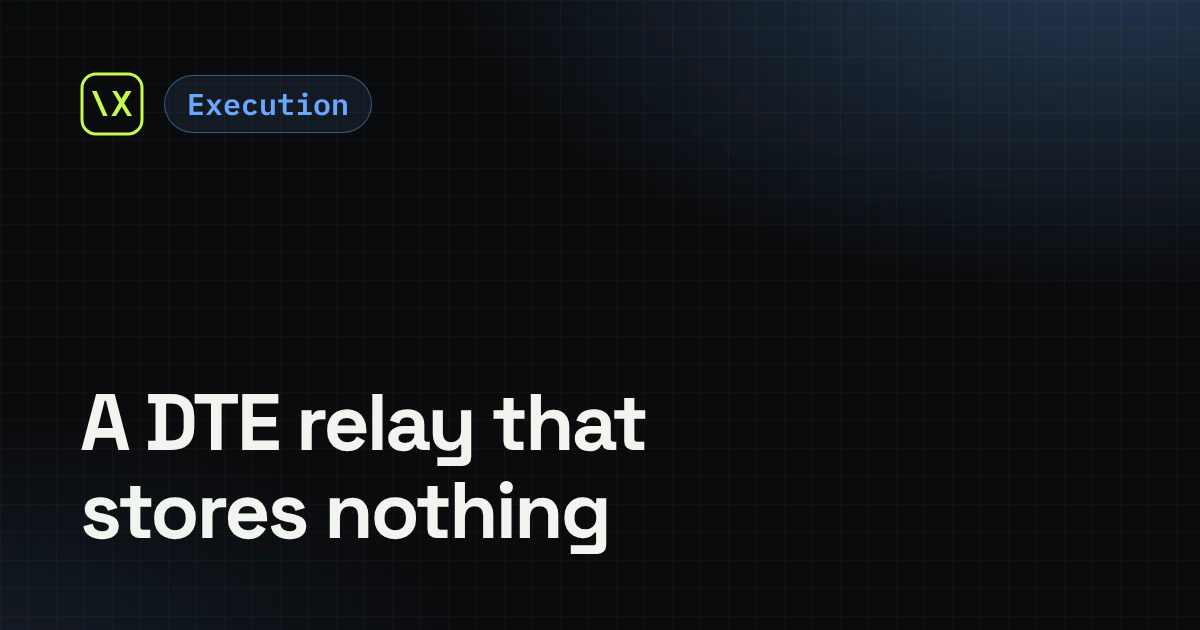
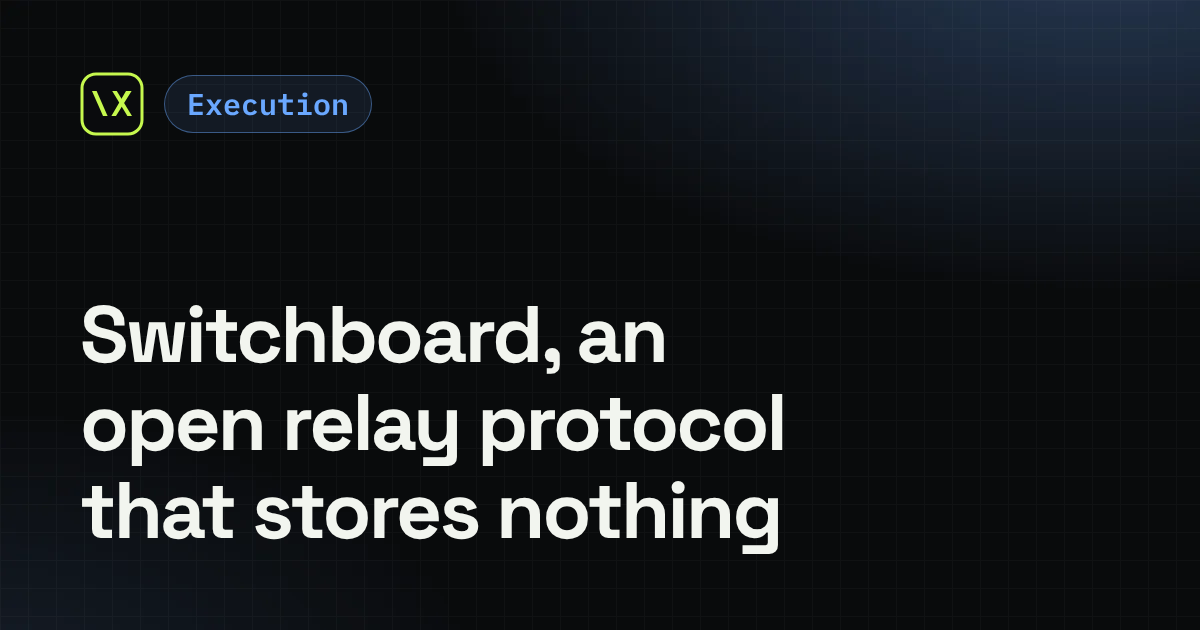
docs(vx-docs): blog the Switchboard relay protocol
The relay post becomes Switchboard's: one host, many peers, the
version on the join, delivery by the two ends, one conformance suite
for both relays. The DTE post links the spec.

Claude-Session: https://claude.ai/code/session_01X6Jk7Rx2UHTmLJsgdJnStG

Changed region(s): [[0.0617, 0.6032, 0.6783, 0.9048], [0.0617, 0.4825, 0.555, 0.6032]]

diff --git a/private/vx-docs/src/content/docs/blog/relay-stores-nothing.md b/private/vx-docs/src/content/docs/blog/relay-stores-nothing.md
@@ -1,52 +1,64 @@
 ---
-title: 'A DTE relay that stores nothing'
+title: 'Switchboard, an open relay protocol that stores nothing'
 date: 2026-10-24T16:00:00Z
 authors:
   - vzn
 tags:
   - execution
   - ci
-excerpt: "vx DTE's relay keeps no message, no timer and no storage row. It passes frames between sockets, and the two ends make sure each one lands."
+excerpt: 'Switchboard links one host to any number of peers through a relay that reads and keeps nothing. vx DTE runs on it, and any tool can.'
 ---
 
-The relay behind [vx DTE](../one-run-on-your-own-runners/) keeps no
-message, sets no timer and writes no storage row. A quiet run of four
-sockets sends 60 frames through it in ten heartbeats.
+Switchboard is the open protocol under vx DTE's relay. One host and any
+number of peers meet at a relay they all dial out to. The relay keeps no
+message, sets no timer and writes no storage row.
 
 ```mermaid
 flowchart LR
-  O[orchestrator] <-->|"socket: numbered, acked"| R((relay))
-  R <-->|"socket: numbered, acked"| W1["worker small#1"]
-  R <-->|"socket: numbered, acked"| W2["worker small#2"]
+  H[host] <-->|one socket| R((relay))
+  R <-->|one socket| P1[peer]
+  R <-->|one socket| P2[peer]
+  R <-->|one socket| P3[peer]
 ```
 
-## One route, one socket each
+## Any tool can use it
 
-Each side opens one websocket and joins on it, with its CI OIDC token.
-There is no other route. A refused join gets its socket closed, with
-the reason in the last frame and in the close.
+The host talks to every peer, and a peer talks only to the host. What
+they say is their own protocol. In [vx DTE](../one-run-on-your-own-runners/)
+the host is the run's orchestrator and each peer a worker.
+
+## One request joins, version included
+
+```http
+GET /sessions/<id>/socket?join={"role":"peer"}
+Sec-WebSocket-Protocol: switchboard.v1
+```
+
+Each side opens one websocket that joins as it opens. The version rides
+on the same request, so it costs no round trip. With no version in
+common, the relay closes the socket `4406` and names the versions it
+speaks.
 
 ## The two ends make sure a message lands
 
 ```mermaid
 sequenceDiagram
-  participant O as orchestrator
+  participant H as host
   participant R as relay
-  participant W as worker
-  O->>R: message 7, an order
-  R--xW: socket gone, dropped
-  Note over O: no ack after a heartbeat
-  O->>R: message 7, again
-  R->>W: message 7
-  W->>R: ack 7
-  R->>O: ack 7
+  participant P as peer
+  H->>R: message 7
+  R--xP: socket gone, dropped
+  Note over H: no ack after a heartbeat
+  H->>R: message 7, again
+  R->>P: message 7
+  P->>R: ack 7
+  R->>H: ack 7
 ```
 
-The relay pushes a message down the receiver's socket, or drops it. Each
-side numbers what it sends and sends it again until the other acks it.
-The receiver takes each number once, in order.
+The relay pushes a message down the receiver's socket, or drops it. The
+sender numbers each message and sends it again until it is acked.
 
-## A closed socket is a lost worker
+## A closed socket is a lost peer
 
 ```mermaid
 xychart-beta
@@ -56,26 +68,22 @@ xychart-beta
   bar [92, 60]
 ```
 
-<small>1 orchestrator, 3 idle workers · 88-96 frames before, 24 up and 36 down after ([#4309](https://github.com/vznjs/vx/pull/4309))</small>
+<small>vx DTE, 1 orchestrator and 3 idle workers · 88-96 frames before, 24 up and 36 down after ([#4309](https://github.com/vznjs/vx/pull/4309))</small>
 
-When a socket closes, the relay drops its worker at once. A worker that
-goes quiet on an open socket is asked after 1.5 heartbeats. No answer,
-and it is lost in under 10 s. When the orchestrator's socket closes,
-every worker's closes too.
+When a socket closes, its peer is gone at once. vx DTE asks a peer quiet
+for 1.5 heartbeats and drops it within 10 s. When the host's socket
+closes, the session closes and every peer is told.
 
-## Free on Cloudflare, or one container
+## Two relays, one test suite
 
-On Cloudflare the run is one Durable Object, there only to hold its
-sockets. What a woken object needs rides on each socket. A join costs
-one request, and every 20 websocket messages count as one more.
+`@vzn/vx-dte-relay` runs on Cloudflare's free plan, one Durable Object
+per session, or on Bun in Docker. Both pass the same conformance suite
+over real websockets.
 
 ```sh frame="terminal"
 docker build -t vx-dte-relay packages/vx-dte-relay
 docker run -p 8080:8080 vx-dte-relay --allow https://gitlab.com:group/app:.gitlab-ci.yml --audience https://relay.example.com
 ```
 
-The container is the same relay on Bun. CI builds the image and carries
-a run through it (`test.live`).
-
-[Relay README](https://github.com/vznjs/vx/tree/main/packages/vx-dte-relay) ·
-more at [vznjs.github.io/vx](https://vznjs.github.io/vx/).
+[The Switchboard spec](../../switchboard/) · more at
+[vznjs.github.io/vx](https://vznjs.github.io/vx/).

diff --git a/private/vx-docs/src/content/docs/blog/one-run-on-your-own-runners.md b/private/vx-docs/src/content/docs/blog/one-run-on-your-own-runners.md
@@ -92,7 +92,7 @@ worktrees) and `docker()`.
 
 [`@vzn/vx-dte-relay`](https://github.com/vznjs/vx/tree/main/packages/vx-dte-relay)
 depends only on [`jose`](https://github.com/panva/jose) and speaks
-[PROTOCOL.md](https://github.com/vznjs/vx/blob/main/packages/vx-dte-relay/PROTOCOL.md).
+[Switchboard](../../switchboard/), an open relay protocol.
 It has one route: a websocket that joins as it opens. It pushes each
 message down the receiver's socket and keeps no copy. It runs one Durable
 Object per run on Cloudflare's free plan, or on Bun in Docker. One var,
@@ -106,7 +106,7 @@ xychart-beta
   bar [92, 60]
 ```
 
-<small>1 orchestrator and 3 idle workers · before: 88-96 frames, 44-48 each way · after: 24 up, 36 down ([#4309](https://github.com/vznjs/vx/pull/4309)) · each participant joins with one request; Workers bills 20 websocket messages as one request, and the relay writes no storage row ([pricing](https://developers.cloudflare.com/durable-objects/platform/pricing/), read 2026-10-23) · [how it works](../relay-stores-nothing/)</small>
+<small>1 orchestrator and 3 idle workers · before: 88-96 frames, 44-48 each way · after: 24 up, 36 down ([#4309](https://github.com/vznjs/vx/pull/4309)) · each participant joins with one request; Workers bills 20 websocket messages as one request, and the relay writes no storage row ([pricing](https://developers.cloudflare.com/durable-objects/platform/pricing/), read 2026-10-23) · [how Switchboard works](../relay-stores-nothing/)</small>
 
 ## The relay reads nothing it carries
 
